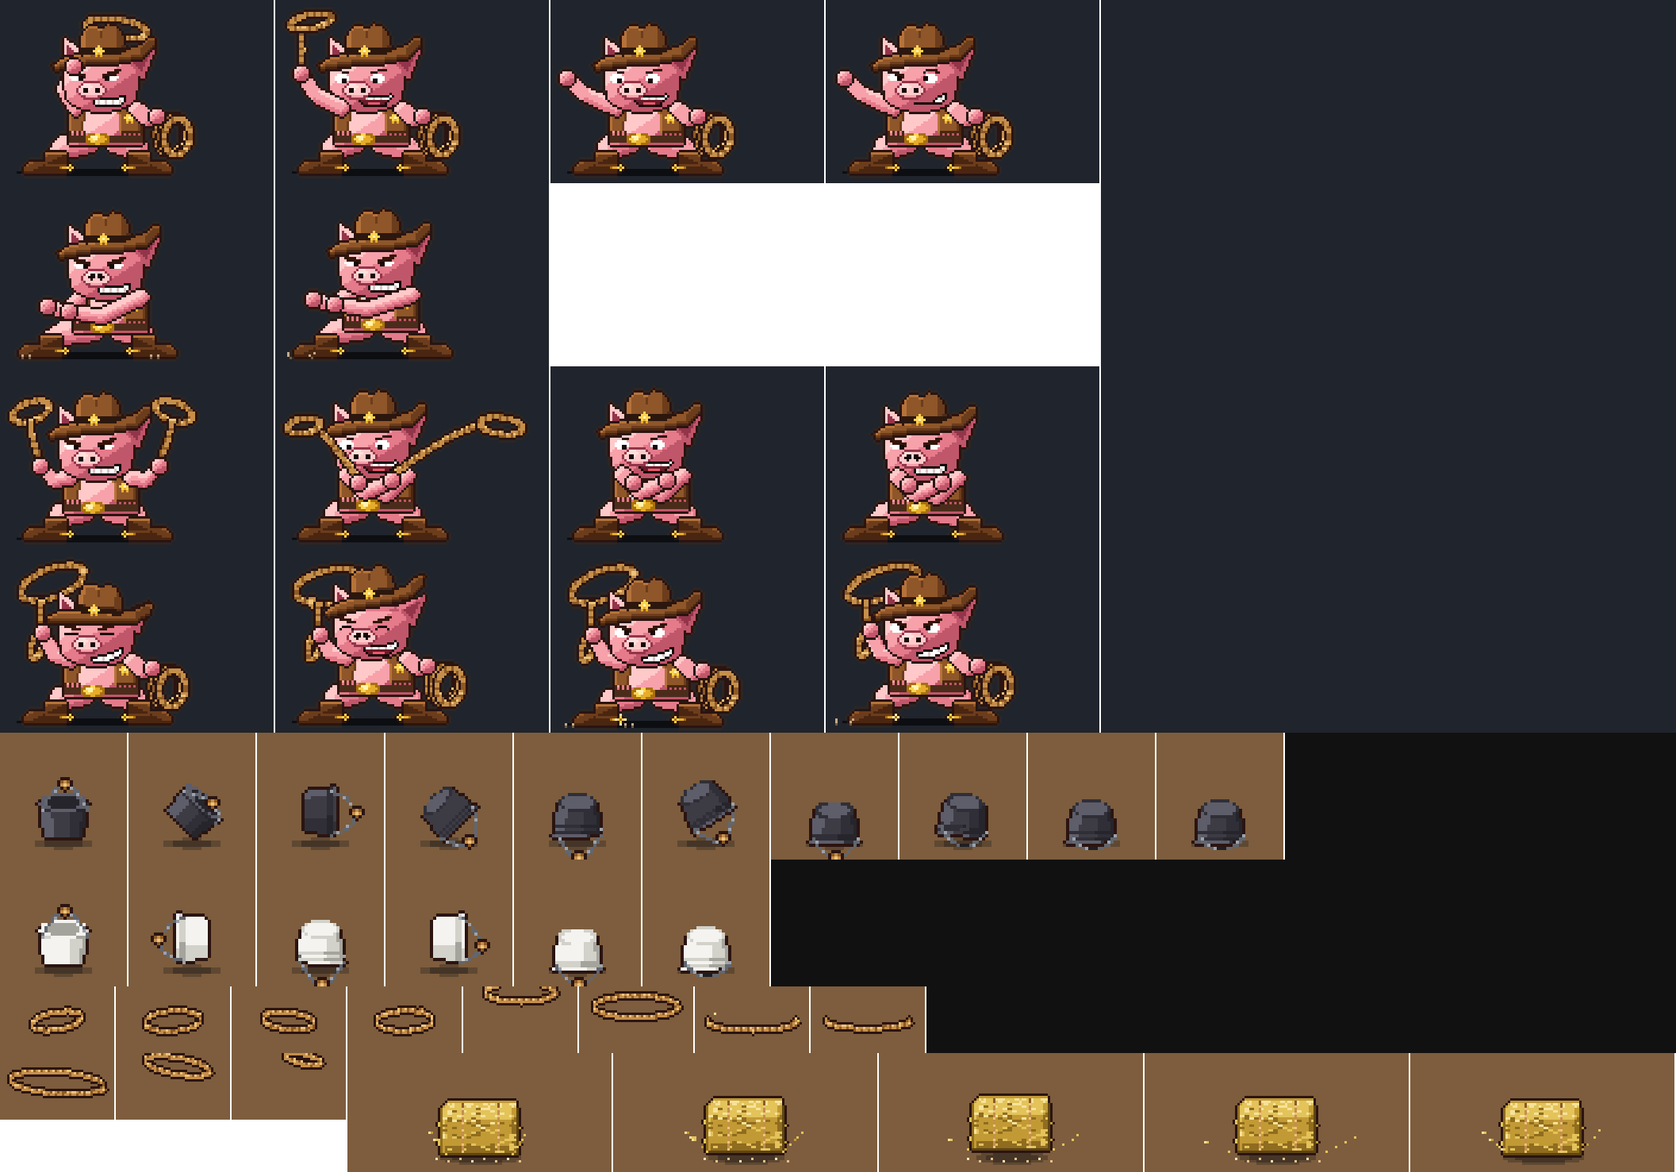
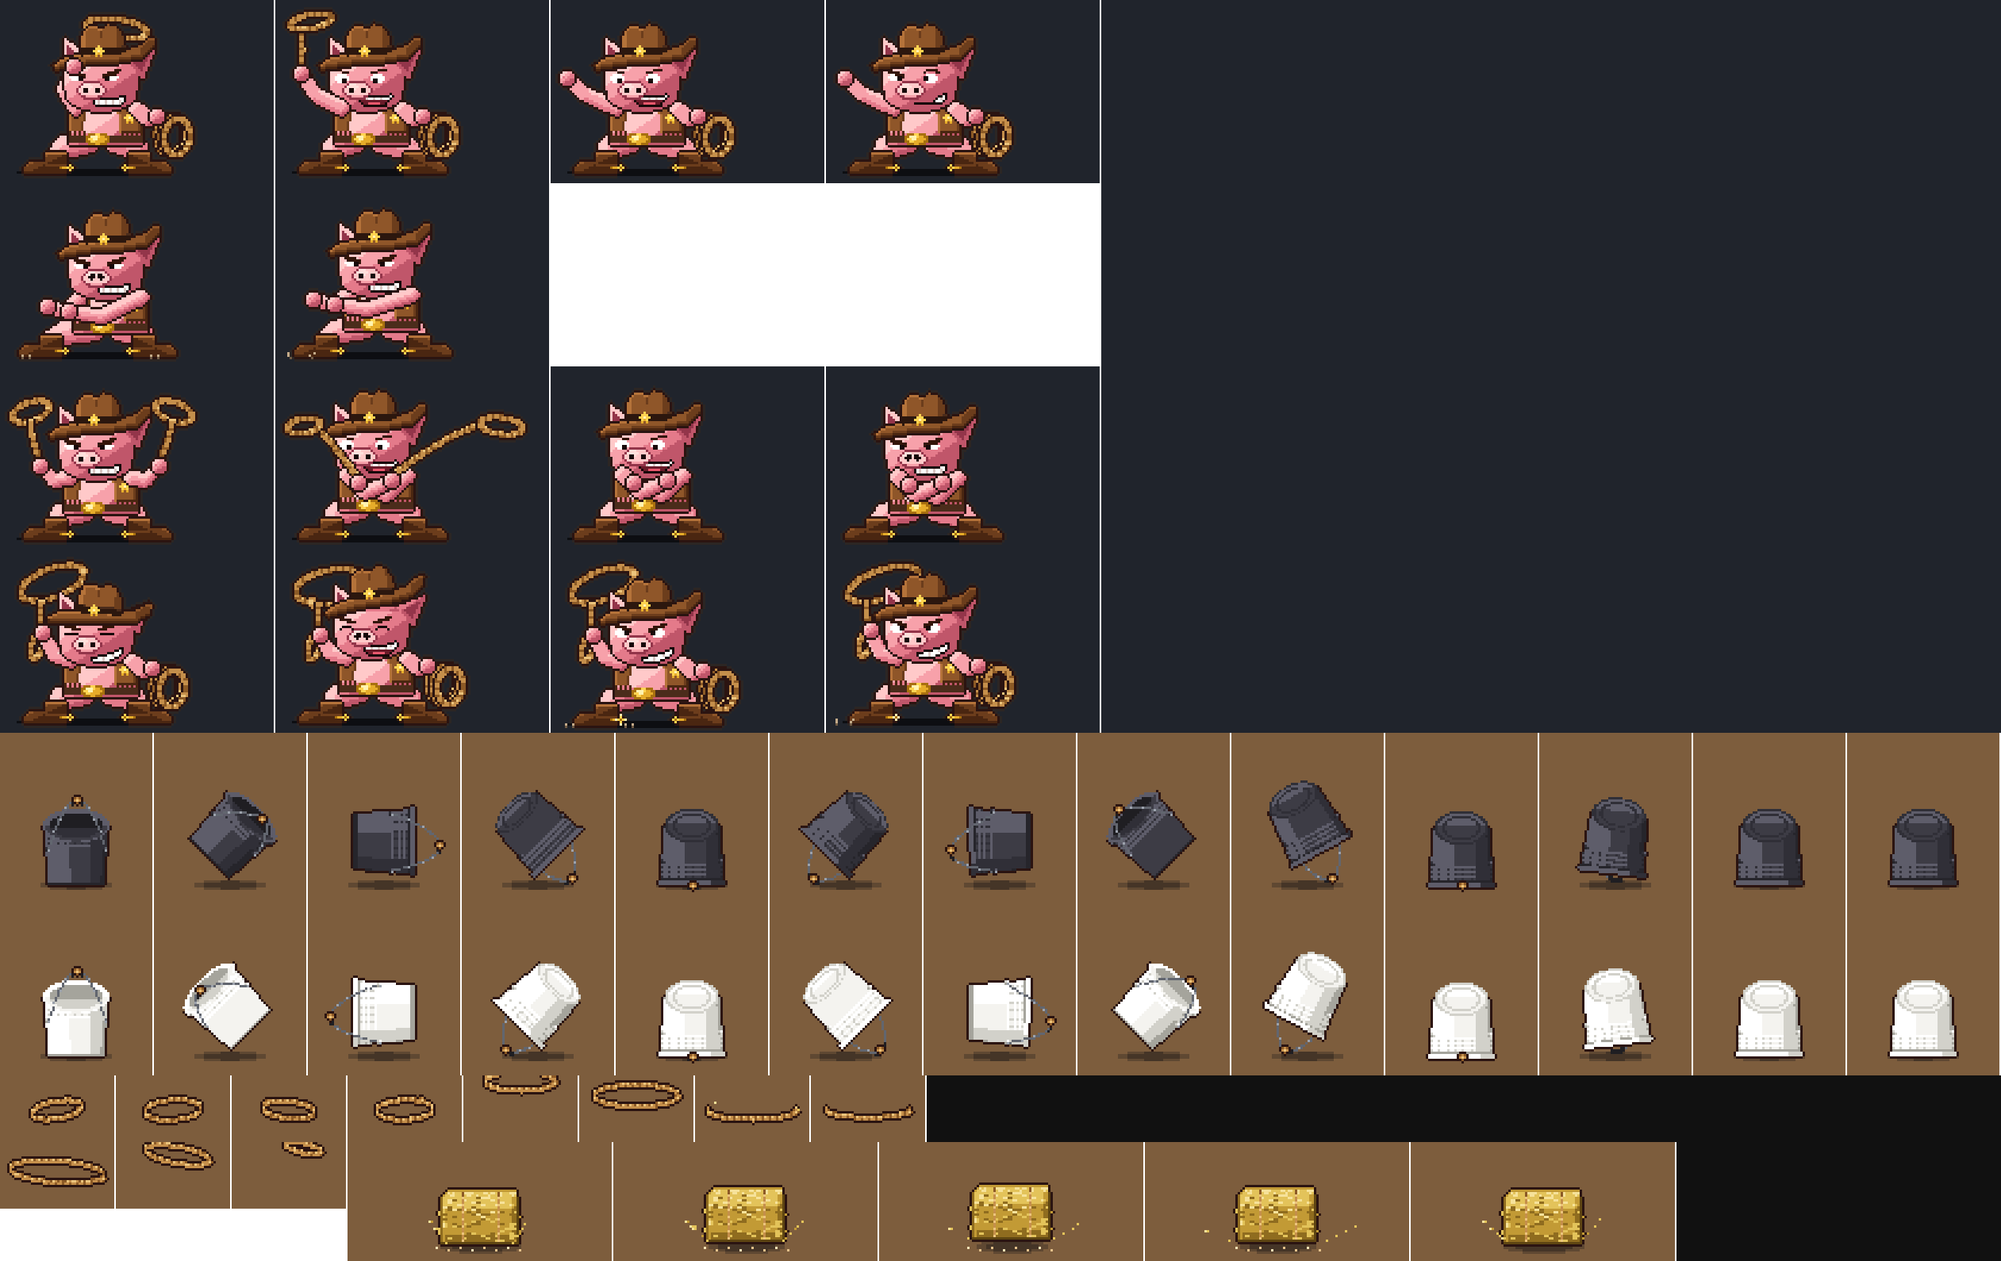
Wrangler's buckets: redrawn as big hardware-store 5-gallon pails (Eric, Nov 4), 64 x 72 frames, seat 25 px; key frames and the props sheet re-rendered, notes updated
Claude-Session: https://claude.ai/code/session_01EKH5j59nMnRVnekEcuZbim

diff --git a/scripts/boss-art/out/house-intro-pig/house-intro-pig.ts b/scripts/boss-art/out/house-intro-pig/house-intro-pig.ts
@@ -9,9 +9,10 @@
  *    the foot; the bale alone, the renderer draws the slab and the board), the same bale as the barn's `board-stand`. `idle`,
  *    `slide` (dragged: bumping, straw flying), `land` (it stops in the middle). INTRO_PIG_TABLE_PALETTE, INTRO_PIG_TABLE_INK,
  *    INTRO_PIG_TABLE_LIFT (the slab's lift on each slide frame).
- * 3. INTRO_PIG_BUCKET_B and INTRO_PIG_BUCKET_W: the black bucket (from our left) and the white one (from our right), 5-gallon
- *    pails with wire handles, the rope's end knotted on the handle: `tumble` (end over end), `land` (upside down, a clatter
- *    and a thunk), `stool` (upside down: a seat, its top at the park stools' seat height). INTRO_PIG_BUCKET_HANDLE.
+ * 3. INTRO_PIG_BUCKET_B and INTRO_PIG_BUCKET_W: the black bucket (from our left) and the white one (from our right), big
+ *    hardware-store 5-gallon pails with wire handles, the rope's end knotted on the handle: `tumble` (end over end), `land`
+ *    (upside down, a clatter and a thunk), `stool` (upside down: its flat base the seat, INTRO_PIG_BUCKET_SEAT_H over the
+ *    foot). INTRO_PIG_BUCKET_HANDLE.
  * 4. INTRO_PIG_STORM (128 x 128, tiles both ways) and INTRO_PIG_FRONT (48 x 128): the wipe into the match, played as
  *    Alfil's sandstorm is: a dusty sunset, tumbleweeds rolling, spurs spinning, toy cap guns popping BANG! flags.
  */
@@ -281,94 +282,122 @@ export const INTRO_PIG_TABLE_INK = {
 } as const;
 
 // ================================================================================================================
-// 3. The buckets: 40 x 40, foot [20, 35]. A 5-gallon pail (15 px across its mouth, 11 tall), a wire handle with a grip, two
-//    ribs under the rim; the rope's end knotted on the handle. Upside down as a stool, its bottom (the seat) at SEAT_H over the
-//    foot (the park stools' seat).
+// 3. The buckets (Eric, Nov 4: "bigger... like those hardware-store 5-gallon buckets... more cylindrical"): 64 x 72, foot
+//    [32, 64]. A tall plastic pail, 27 px across its open top, tapering a little to 23 at its base, 25 tall; a thick rolled
+//    lip, three stacked rim ribs under it with stiffening struts between, a thin wire handle from two ears with a plastic
+//    grip, the rope's end knotted on the grip. Upside down as a stool, its flat base on top is its seat:
+//    INTRO_PIG_BUCKET_SEAT_H (25) over the foot, higher than the park stools' (11), as Eric allowed.
 // ================================================================================================================
 
-export const INTRO_PIG_BUCKET_SEAT_H = SEAT_H;
-const BW = 40;
-const BH = 40;
-const BF: Pt = [20, 35];
-const HALF_MOUTH = 7.6;
-const HALF_BASE = 6.1;
-const TALL = 10.5; // the pail, mouth to bottom: upside down, its seat (its bottom) is SEAT_H (11) over the foot
-type Ink = { body: string; shade: string; deep: string; lit: string };
+const BW = 64;
+const BH = 72;
+const BF: Pt = [32, 64];
+const HALF_MOUTH = 13.5;
+const HALF_BASE = 11.5;
+const TALL = 25; // the pail, mouth to base
+export const INTRO_PIG_BUCKET_SEAT_H = TALL;
+type Ink = { body: string; shade: string; deep: string; lit: string; inside: string; insideFar: string };
 const INK: Record<"w" | "b", Ink> = {
-  w: { body: "(", shade: ")", deep: "[", lit: "(" },
-  b: { body: "]", shade: "|", deep: "{", lit: "}" },
+  w: { body: "(", shade: ")", deep: "[", lit: "^", inside: "[", insideFar: ")" },
+  b: { body: "]", shade: "|", deep: "{", lit: "}", inside: "<", insideFar: "|" },
 };
 /**
- * The pail at angle `a` (radians, 0 mouth up; turning clockwise) with its middle at (cx, cy): its body (lit to the top
- * left), the ribs, the end cap that faces up (the open mouth, dark inside, or its bottom), the handle (swung by `swing`),
- * the knot of rope on the handle's grip (or none). Returns the bits and where the grip is.
+ * The pail at angle `a` (radians, 0 mouth up; turning clockwise) with its middle at (cx, cy): its body (a cylinder lit from
+ * the top left), the rolled lip and the rim ribs by the mouth, the end cap that faces up the screen (the open mouth with
+ * the dark inside when the mouth is up, or the flat base with its recessed ring when the base is up), the wire handle
+ * (swung by `swing`, never below the floor), the knot of rope on its grip. Returns the bits and where the grip is.
  */
 function pail(ink: Ink, cx: number, cy: number, a: number, swing: number, knot: boolean): { bits: Bit[]; grip: Pt } {
   const body = cv(BW, BH);
   const ca = Math.cos(a);
   const sa = Math.sin(a);
-  // Local (u across, v along: v < 0 toward the mouth) to the frame.
+  // Local (u across, v along: v < 0 toward the mouth) to the frame, and back.
   const toF = (u: number, v: number): Pt => [cx + u * ca - v * sa, cy + u * sa + v * ca];
   const toL = (x: number, y: number): Pt => [(x - cx) * ca + (y - cy) * sa, -(x - cx) * sa + (y - cy) * ca];
+  const halfAt = (t: number) => HALF_MOUTH + (HALF_BASE - HALF_MOUTH) * t;
   for (let y = 0; y < BH; y++)
     for (let x = 0; x < BW; x++) {
       const [u, v] = toL(x + 0.5, y + 0.5);
-      const t = (v + TALL / 2) / TALL; // 0 at the mouth, 1 at the bottom
+      const t = (v + TALL / 2) / TALL; // 0 at the mouth, 1 at the base
       if (t < 0 || t > 1) continue;
-      const half = HALF_MOUTH + (HALF_BASE - HALF_MOUTH) * t;
+      const lipOut = t < 0.08 ? 0.9 : 0; // the rolled lip stands proud of the wall
+      const half = halfAt(t) + lipOut;
       if (Math.abs(u) > half) continue;
-      // Lit from the top left in the frame: its normal's direction.
-      const nx = (u / half) * ca;
-      const ny = (u / half) * sa;
-      const l = 0.55 - 0.45 * nx - 0.35 * ny;
-      const rib = Math.abs(t - 0.14) < 0.045 || Math.abs(t - 0.26) < 0.045;
-      let k = l > 0.78 ? ink.lit : l > 0.42 ? ink.body : l > 0.18 ? ink.shade : ink.deep;
-      if (rib) k = l > 0.5 ? ink.shade : ink.deep;
-      if (t < 0.06) k = l > 0.4 ? ink.lit : ink.shade; // the rolled rim
+      // Lit from the top left in the frame: the wall's normal there.
+      const nu = u / half;
+      const l = 0.58 - 0.5 * (nu * ca) - 0.4 * (nu * sa) + 0.18 * Math.sqrt(Math.max(0, 1 - nu * nu));
+      let k = l > 0.86 ? ink.lit : l > 0.5 ? ink.body : l > 0.22 ? ink.shade : ink.deep;
+      const tp = t * TALL; // px from the mouth
+      if (tp < 2) k = l > 0.45 ? ink.lit : ink.shade; // the lip
+      else if (tp < 2.6) k = ink.deep; // its shadow under it
+      else if (Math.abs(tp - 4.2) < 0.55 || Math.abs(tp - 6.4) < 0.55 || Math.abs(tp - 8.6) < 0.55) k = l > 0.5 ? ink.lit : ink.shade; // three rim ribs
+      else if (tp < 9.2 && Math.abs(((u + 40) % 3.4) - 1.7) < 0.5) k = ink.shade; // the struts between them
+      else if (tp > TALL - 1.2) k = ink.deep; // the base's edge
       put(body, x, y, k);
     }
-  // The end cap facing up the screen: the mouth (dark inside, a rim round it) when the mouth is up, else its bottom.
+  // The handle's ears: a round boss either side just under the ribs.
+  for (const side of [-1, 1]) {
+    const [ex, ey] = toF(side * (halfAt(0.4) - 0.6), -TALL / 2 + 10);
+    stampRows(body, Math.round(ex) - 1, Math.round(ey) - 1, [ink.shade + ink.lit, ink.deep + ink.shade]);
+  }
+  // The end cap facing up the screen: the mouth (lip round it, the dark inside, the far inner wall lit) or the base.
   const cap = cv(BW, BH);
   const mouthUp = ca > 0;
   const capV = mouthUp ? -TALL / 2 : TALL / 2;
-  const capHalf = mouthUp ? HALF_MOUTH : HALF_BASE;
-  const depth = Math.abs(ca) * 2.6 + 0.4;
-  if (Math.abs(ca) > 0.3) {
+  const capHalf = (mouthUp ? HALF_MOUTH + 0.9 : HALF_BASE) - 0.2;
+  const depth = Math.abs(ca) * 6.5 + 0.6;
+  if (Math.abs(ca) > 0.25) {
     for (let y = 0; y < BH; y++)
       for (let x = 0; x < BW; x++) {
         const [u, v] = toL(x + 0.5, y + 0.5);
-        const e = (u / capHalf) ** 2 + ((v - capV) / depth) ** 2;
+        const dv = (v - capV) * (mouthUp ? 1 : -1); // < 0 toward the far edge
+        const e = (u / capHalf) ** 2 + (dv / depth) ** 2;
         if (e > 1) continue;
-        put(cap, x, y, mouthUp ? (e > 0.55 ? ink.lit : ink === INK.w ? "[" : "{") : e > 0.6 ? ink.shade : ink.lit);
+        let k: string;
+        if (mouthUp) {
+          if (e > 0.6) k = dv < 0 || e > 0.85 ? ink.lit : ink.body; // the lip, all round
+          else k = dv > depth * 0.15 ? ink.insideFar : ink.inside; // the inside: its far wall lit, the depth dark
+        } else {
+          k = e > 0.8 ? ink.shade : Math.abs(e - 0.45) < 0.08 ? ink.shade : dv < -depth * 0.2 ? ink.lit : ink.body; // the flat base, a recessed ring
+        }
+        put(cap, x, y, k);
       }
   }
-  // The handle: a wire arc from its ears (under the rim, either side) out over the mouth, swung; a black grip in the middle.
+  // The handle: a thin wire from ear to ear, swung over the mouth (swing 0) or down along its side; a plastic grip in the middle.
   const handle = cv(BW, BH);
-  const ear = TALL / 2 - TALL * 0.2;
-  // Its ears under the rim, either side; its top (the grip) swung over the mouth (swing 0) or down along its side (swing
-  // near a quarter turn: then it lies on the pail's front, a little lower on the screen).
-  const [lx, ly] = toF(-HALF_MOUTH + 0.6, -ear);
-  const [rx, ry] = toF(HALF_MOUTH - 0.6, -ear);
-  const [ax, ay0] = toF(0, -ear - 8 * Math.cos(swing));
-  const ay = ay0 + 3.5 * Math.abs(Math.sin(swing));
+  const [lx, ly] = toF(-(halfAt(0.4) - 0.6), -TALL / 2 + 10);
+  const [rx, ry] = toF(halfAt(0.4) - 0.6, -TALL / 2 + 10);
+  const [ax, ay0] = toF(0, -TALL / 2 + 10 - 21 * Math.cos(swing));
+  const ay = ay0 + 8 * Math.abs(Math.sin(swing));
   const qx = 2 * ax - (lx + rx) / 2;
   const qy = 2 * ay - (ly + ry) / 2;
   let grip: Pt = [Math.round(ax), Math.round(ay)];
-  for (let i = 0; i <= 30; i++) {
-    const t = i / 30;
+  for (let i = 0; i <= 60; i++) {
+    const t = i / 60;
     const x = (1 - t) ** 2 * lx + 2 * (1 - t) * t * qx + t * t * rx;
-    const y = (1 - t) ** 2 * ly + 2 * (1 - t) * t * qy + t * t * ry;
-    const mid = i >= 12 && i <= 18;
-    put(handle, x, y, mid ? "<" : i % 4 === 0 ? "n" : "M");
-    if (i === 15) grip = [Math.round(x), Math.round(y)];
+    const y = Math.min(BF[1] - 0.5, (1 - t) ** 2 * ly + 2 * (1 - t) * t * qy + t * t * ry); // (it lies on the floor, never under it)
+    const mid = i >= 24 && i <= 36;
+    put(handle, x, y, mid ? "<" : i % 6 === 0 ? "n" : "M");
+    if (mid) put(handle, x, y + 1, "<"); // the grip is thicker than the wire
+    if (i === 30) grip = [Math.round(x), Math.round(y)];
   }
   const knotC = cv(BW, BH);
   if (knot) stampRows(knotC, grip[0] - 1, grip[1] - 1, ["rRr", "RtR", ".r."]);
-  return { bits: [cropBit(body)!, ...(cropBit(cap, false) ? [cropBit(cap, false)!] : []), ...(cropBit(handle, false) ? [cropBit(handle, false)!] : []), ...(cropBit(knotC) ? [cropBit(knotC)!] : [])], grip };
+  const handleBehind = !mouthUp && Math.abs(ca) > 0.6; // upside down: the handle hangs on its far side...
+  const bits = [cropBit(body)!, ...(cropBit(cap, false) ? [cropBit(cap, false)!] : [])];
+  const h = cropBit(handle, false);
+  return { bits: h ? (handleBehind ? [h, ...bits] : [...bits, h]).concat(cropBit(knotC) ? [cropBit(knotC)!] : []) : bits, grip };
 }
-/** Its middle when it stands upside down on its spot: its rim on the floor. */
-const REST_C: Pt = [BF[0], BF[1] - TALL / 2 - 0.5];
+/** Its middle so its lowest point rests on the floor at angle `a`, lifted `hop`. */
+function restY(a: number, hop = 0): number {
+  const ca = Math.cos(a);
+  const sa = Math.sin(a);
+  let low = -Infinity;
+  for (const [u, v] of [[-HALF_MOUTH - 0.9, -TALL / 2], [HALF_MOUTH + 0.9, -TALL / 2], [-HALF_BASE, TALL / 2], [HALF_BASE, TALL / 2]] as const) low = Math.max(low, u * sa + v * ca);
+  return BF[1] - low - hop;
+}
 const HANDLE: Record<string, Pt[]> = {};
+const shadowB = () => groundShadow(BF[0], BF[1], 15, 2.2);
 function bucket(color: "w" | "b", dir: 1 | -1): Character {
   const ink = INK[color];
   const parts: Record<string, Part> = {};
@@ -376,21 +405,21 @@ function bucket(color: "w" | "b", dir: 1 | -1): Character {
   // tumble: end over end, 8 frames (a turn every 8), rolling toward the middle (dir 1: from our left, turning clockwise).
   const tumble = Array.from({ length: 8 }, (_, f) => {
     const a = dir * ((f * Math.PI) / 4);
-    const hop = Math.abs(Math.sin((f * Math.PI) / 4)) * 2.5;
-    const p = pail(ink, BF[0], REST_C[1] - 2 - hop, a, Math.sin(f * 1.7) * 0.8, true);
-    return { bits: [groundShadow(BF[0], BF[1], 9, 1.6), ...p.bits], ms: 60, grip: p.grip, cue: f % 4 === 0 ? "clatter" : undefined };
+    const hop = Math.abs(Math.sin((f * Math.PI) / 4)) * 4;
+    const p = pail(ink, BF[0], restY(a, hop), a, Math.sin(f * 1.7) * 0.7, true);
+    return { bits: [shadowB(), ...p.bits], ms: 60, grip: p.grip, cue: f % 4 === 0 ? "clatter" : undefined };
   });
   // land: it comes down upside down (mouth to the floor), a bounce, a thunk, it settles; the rope slack, untied.
   const landList = [
-    { a: Math.PI * 0.82, dy: -6, sw: 0.6, knot: true, ms: 70, cue: "clatter" },
-    { a: Math.PI, dy: 0.5, sw: 1.2, knot: true, ms: 90, cue: "thunk" },
-    { a: Math.PI * 1.04, dy: -2, sw: 1.4, knot: false, ms: 80 },
-    { a: Math.PI, dy: 0, sw: 1.5, knot: false, ms: 140 },
+    { a: Math.PI * 0.84, hop: 7, sw: 0.6, knot: true, ms: 70, cue: "clatter" },
+    { a: Math.PI, hop: -1, sw: 1.2, knot: true, ms: 90, cue: "thunk" },
+    { a: Math.PI * 1.04, hop: 3, sw: 1.4, knot: false, ms: 80 },
+    { a: Math.PI, hop: 0, sw: 1.5, knot: false, ms: 140 },
   ].map((l) => {
-    const p = pail(ink, BF[0], REST_C[1] + l.dy, dir * l.a, dir * l.sw, l.knot);
-    return { bits: [groundShadow(BF[0], BF[1], 9, 1.6), ...p.bits], ms: l.ms, cue: l.cue, grip: p.grip };
+    const p = pail(ink, BF[0], restY(dir * l.a, l.hop), dir * l.a, dir * l.sw, l.knot);
+    return { bits: [shadowB(), ...p.bits], ms: l.ms, cue: l.cue, grip: p.grip };
   });
-  const stoolP = pail(ink, BF[0], REST_C[1], Math.PI, dir * 1.5, false);
+  const stoolP = pail(ink, BF[0], restY(Math.PI), Math.PI, dir * 1.5, false);
   HANDLE[`${color}:tumble`] = tumble.map((t) => t.grip);
   HANDLE[`${color}:land`] = landList.map((t) => t.grip);
   return {
@@ -402,8 +431,8 @@ function bucket(color: "w" | "b", dir: 1 | -1): Character {
     palette: PALETTE,
     parts,
     anims: {
-      idle: { loop: true, frames: framesOf("idle-", parts, [{ bits: [groundShadow(BF[0], BF[1], 9, 1.6), ...stoolP.bits], ms: 1000 }], BW, BH) },
-      stool: { loop: true, frames: framesOf("stool-", parts, [{ bits: [groundShadow(BF[0], BF[1], 9, 1.6), ...stoolP.bits], ms: 1000 }], BW, BH) },
+      idle: { loop: true, frames: framesOf("idle-", parts, [{ bits: [shadowB(), ...stoolP.bits], ms: 1000 }], BW, BH) },
+      stool: { loop: true, frames: framesOf("stool-", parts, [{ bits: [shadowB(), ...stoolP.bits], ms: 1000 }], BW, BH) },
       tumble: { loop: true, frames: framesOf("tumble-", parts, tumble, BW, BH) },
       land: { loop: false, frames: framesOf("land-", parts, landList, BW, BH) },
     },

diff --git a/scripts/boss-art/out/intro-pig-nov4.md b/scripts/boss-art/out/intro-pig-nov4.md
@@ -15,7 +15,7 @@ spinning spurs, tumbleweeds and toy cap guns popping a BANG! flag. The boss is o
   [computer](house-intro-pig/view-fight-start-computer.png). The board on its hay bale is in view top left on both.
 - **The intro's key frames, one sheet** (phone, 1.0 to 11.5 s): [view-intro-keyframes.png](house-intro-pig/view-intro-keyframes.png).
   These are the line, the spin, the throw, the catch, the drag, the bale in the middle, the cross throw, the buckets
-  tumbling, the stools landed, the brag and the wipe half across. Every figure is fully on screen at rest and at the end of
+  tumbling, the stools landed, the brag and the wipe half across. Re-rendered with the bigger buckets (Nov 4). Every figure is fully on screen at rest and at the end of
   every move.
 - **His moves and the props at 3x/4x:** [view-moves-and-props.png](house-intro-pig/view-moves-and-props.png).
 - The camera is CHALLENGE_FEEL.cam.across (0.75 squares west and 0.8 south of the table's middle, zoom 1), under the room's
@@ -76,17 +76,28 @@ spinning spurs, tumbleweeds and toy cap guns popping a BANG! flag. The boss is o
 - **`INTRO_PIG_TABLE_PALETTE`:** the slab is a plank board ("1" #e0b070 to "5" #52301a). The squares are straw cream `L`
   #efd9a4 and barn red `D` #b5523a. **`INTRO_PIG_TABLE_INK`** gives the same squares with their shades and lines. As with
   Alfil's, keep the town's `TABLE_INK` for the pieces: the charcoal pieces read on the barn red.
-- **`INTRO_PIG_BUCKET_B`** (black, from our left: his stool) and **`INTRO_PIG_BUCKET_W`** (white, from our right: yours):
-  - The size is 40 x 40, foot [20, 35]. Each is a 5-gallon pail with two ribs under its rim and a wire handle with a black
-    grip, the rope's end knotted on the grip.
+- **`INTRO_PIG_BUCKET_B`** (black, from our left: his stool) and **`INTRO_PIG_BUCKET_W`** (white, from our right: yours),
+  **redrawn bigger (Eric, Nov 4)**: "like those hardware-store 5-gallon buckets... more cylindrical... at least twice that
+  size".
+  - **The size is 64 x 72, foot [32, 64]** (it was 40 x 40, foot [20, 35]). Each is a generic 5-gallon hardware pail with no
+    brand or text: a tall plastic cylinder **27 px across its open top, tapering a little to 23 at its base, 25 tall** (it
+    was 15 x 11). It has a thick rolled lip, three stacked rim ribs under it with stiffening struts between, two handle ears,
+    a thin wire handle with a plastic grip, and the rope's end knotted on the grip.
   - `tumble`: 8 x 60 ms, loops, with `clatter` f0 and f4. End over end, turning toward the middle (the black clockwise, the
-    white the other way), with a little hop.
+    white the other way), with a little hop. Its lowest point stays on the floor. **When its mouth faces up toward us, the
+    open mouth shows**: the lip all round, the dark inside and its far inner wall.
   - `land`: 70, 90, 80, 140 ms, with `clatter` f0 and `thunk` f1. It comes down upside down, mouth to the floor, bounces,
     and settles. The knot is untied from f2.
-  - `stool` (and `idle`): upside down. **Its seat (the pail's bottom) is `INTRO_PIG_BUCKET_SEAT_H` (11) over the foot**, the
-    park stools' seat height. Place one at the table's foot x - 37 (black) and + 37 (white).
+  - `stool` (and `idle`): upside down, **the flat base on top** (a recessed ring in it), the rim ribs and lip at the floor,
+    the handle lying along the floor behind it.
+  - **`INTRO_PIG_BUCKET_SEAT_H` = 25** (it was 11, the park stools' seat): its seat (the base) is 25 px over the foot, so
+    you and he sit higher than on the park stools, nearly level with the table's slab (27). Eric said that's fine. Sit
+    figures at this height on these stools.
+  - Place one at the table's foot x - 37 (black) and + 37 (white), as before. **Checked** in the key frames and on the
+    computer camera: each bucket's edge is about 7 px clear of the bale, his clear place and yours, with nobody moving. The
+    black one lands just right of his coil and the white just left of your pawn, all on screen.
   - **`INTRO_PIG_BUCKET_HANDLE`**: by `<w|b>:<tumble|land>` and frame, where the handle's grip is (the rope's end), in the
-    bucket's pixels.
+    bucket's new pixels.
 - **`INTRO_PIG_STORM`** (128 x 128, tiles both ways) and **`INTRO_PIG_FRONT`** (48 x 128, tiles top to bottom): 6 x 70 ms,
   looping, with cues `jingle` f0 and `pop` f3 on the storm. Play them exactly like Alfil's sandstorm: the tile at 3x behind
   its front, sweeping in from the left.
@@ -143,8 +154,8 @@ bale and the buckets come in without anyone moving. Code can walk him there, or 
    left, so his arms are crossed when he throws. On the yank he flings them wide, and the ropes cross in front of him.
 3. **The bale's drag** curves down the west side and swings east into the middle, so it passes beside him rather than
    through him.
-4. **The buckets are the park stools' size** (their seats at the stools' height), so they look small beside the bale. A
-   bigger pail would put you higher than the table.
+4. **The buckets are big hardware-store pails now** (Eric, Nov 4), as tall as the bale, their seats at 25 px (the park
+   stools' are 11).
 5. **In the mockup, he and you stand at your clear places from the start.**
 6. **The wipe's toy guns** are chunky red and blue plastic with orange safety tips, and their flags read BANG!
 7. **The table's slab is a plank board, and the board is straw cream and barn red.**
